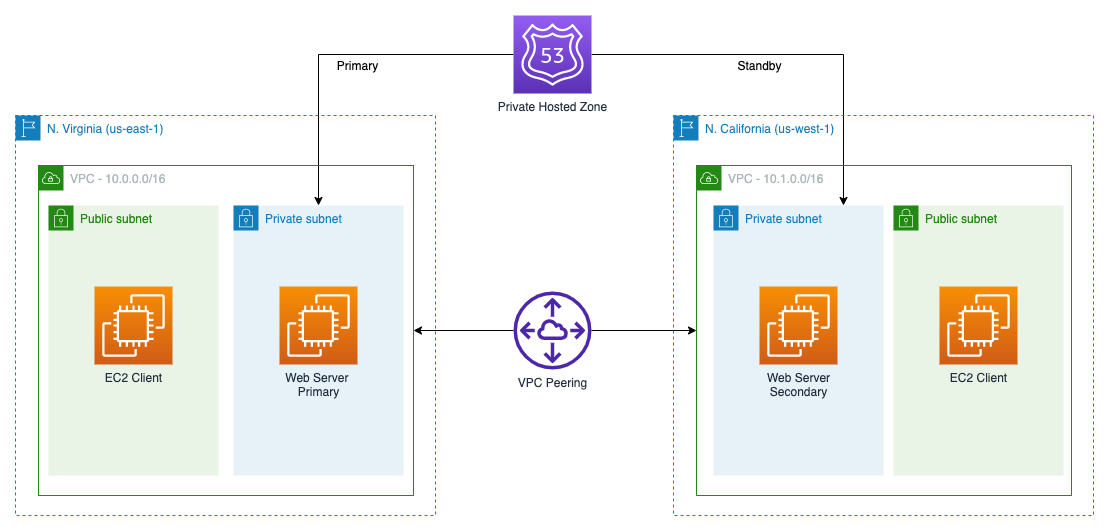
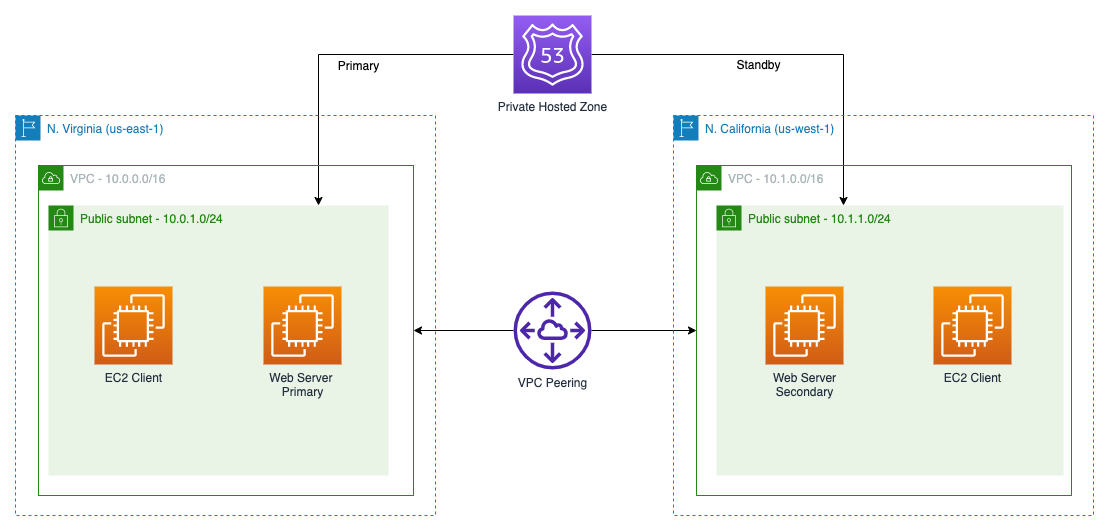
New lab diagram, using just one subnet per region. Add diagram source Fix the example CIDR

diff --git a/workshop/content/labs/basics/route53/cloudshell.en.md b/workshop/content/labs/basics/route53/cloudshell.en.md
@@ -20,7 +20,7 @@ hidden: true
    aws ec2 create-key-pair --key-name us-west-1-keypair --query 'KeyMaterial' --output text > us-west-1-keypair.pem --region us-west-1
    ```     
 
-2. Create two VPC environments in two distinct regions with different CIDR (e.g. 10.0.0.0/16 and 172.16.0.0/16) with interconnectivity using the CloudFormation template below:
+2. Create two VPC environments in two distinct regions with different CIDR (e.g. 10.0.0.0/16 and 10.1.0.0/16) with interconnectivity using the CloudFormation template below:
 
 
     ```bash
